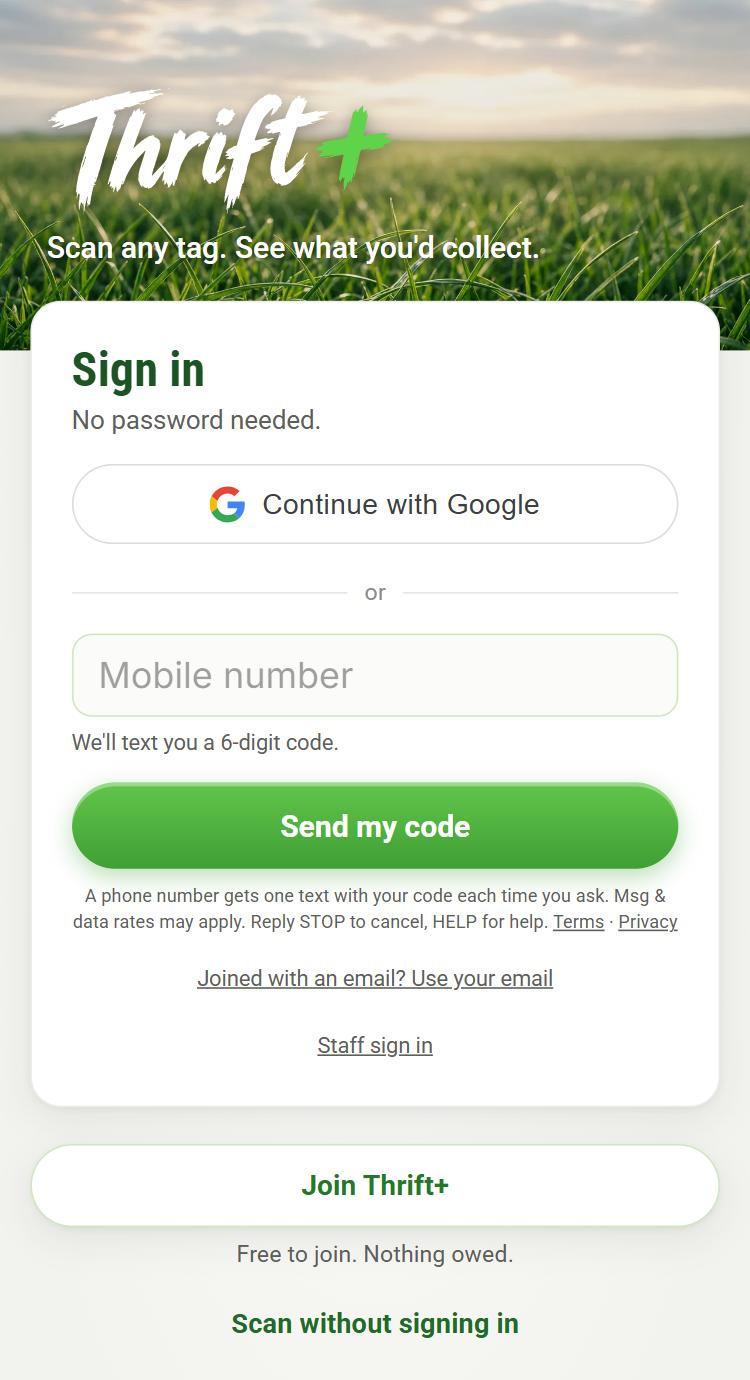
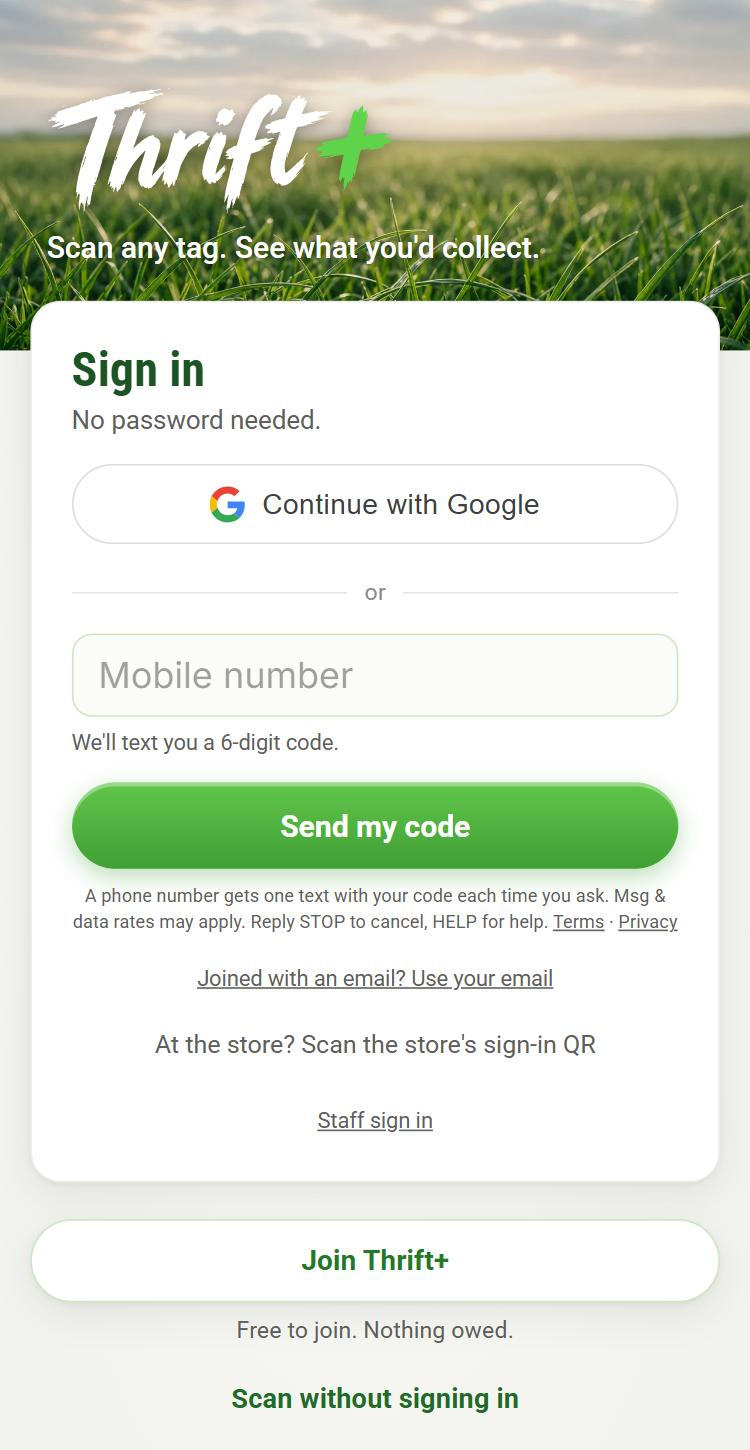
v2.186.2 — The text opt-in screenshot shows today's sign-in screen
User-facing theme: **The text opt-in screenshot shows today's sign-in screen (Bill, 2026-10-20).** Outside initiatives (Thrift+).

### Changed
- **ecothrift.us/sms-opt-in.png:** retaken from the live sign-in screen, now with "At the store? Scan the store's sign-in QR" (v2.186.0). The text-message line under Send my code is unchanged, word for word, from what Twilio's toll-free review was given.

diff --git a/CHANGELOG.md b/CHANGELOG.md
@@ -1,5 +1,5 @@
-<!-- Line 1 release: ## [2.186.1] -->
-<!-- Last reviewed: 2026-10-20 (2.186.1) -->
+<!-- Line 1 release: ## [2.186.2] -->
+<!-- Last reviewed: 2026-10-20 (2.186.2) -->
 # Changelog
 
 All notable changes to this project are documented here at the **version level**.
@@ -11,6 +11,13 @@ Versioning follows [Semantic Versioning](https://semver.org/).
 ---
 
 ## [Unreleased]
+
+## [2.186.2] - 2026-10-20
+
+User-facing theme: **The text opt-in screenshot shows today's sign-in screen (Bill, 2026-10-20).** Outside initiatives (Thrift+).
+
+### Changed
+- **ecothrift.us/sms-opt-in.png:** retaken from the live sign-in screen, now with "At the store? Scan the store's sign-in QR" (v2.186.0). The text-message line under Send my code is unchanged, word for word, from what Twilio's toll-free review was given.
 
 ## [2.186.1] - 2026-10-20
 
